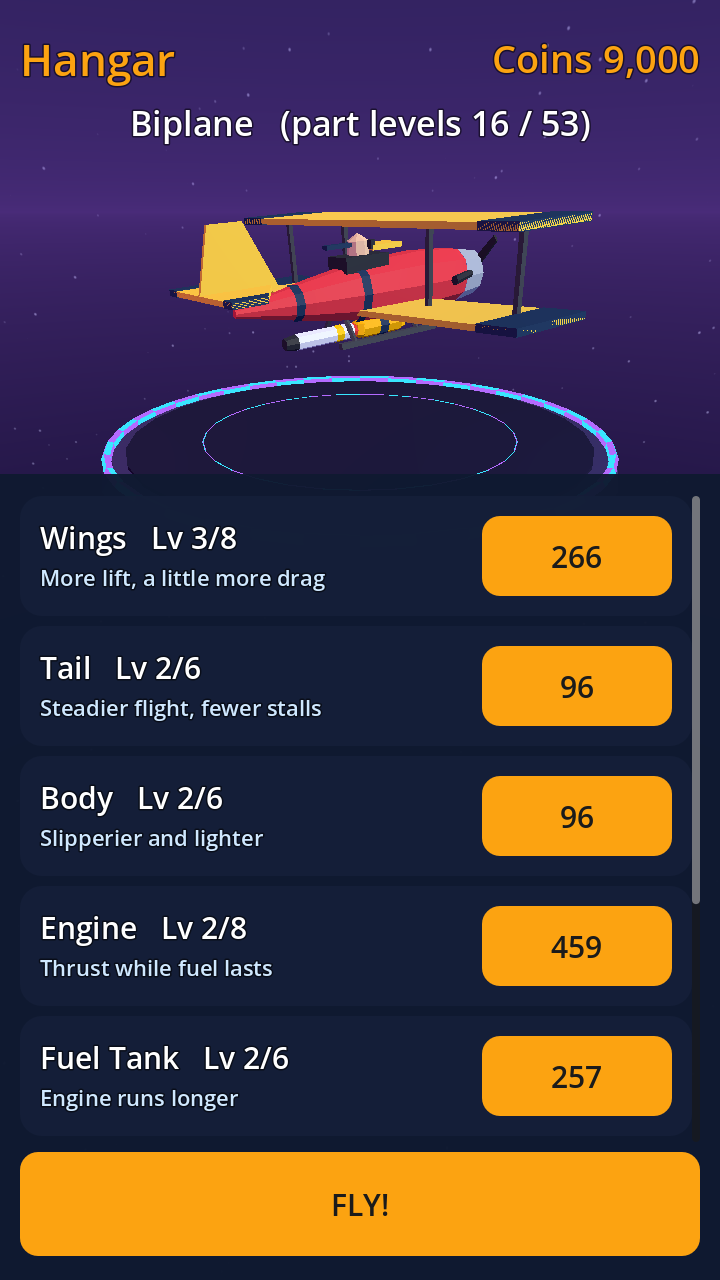
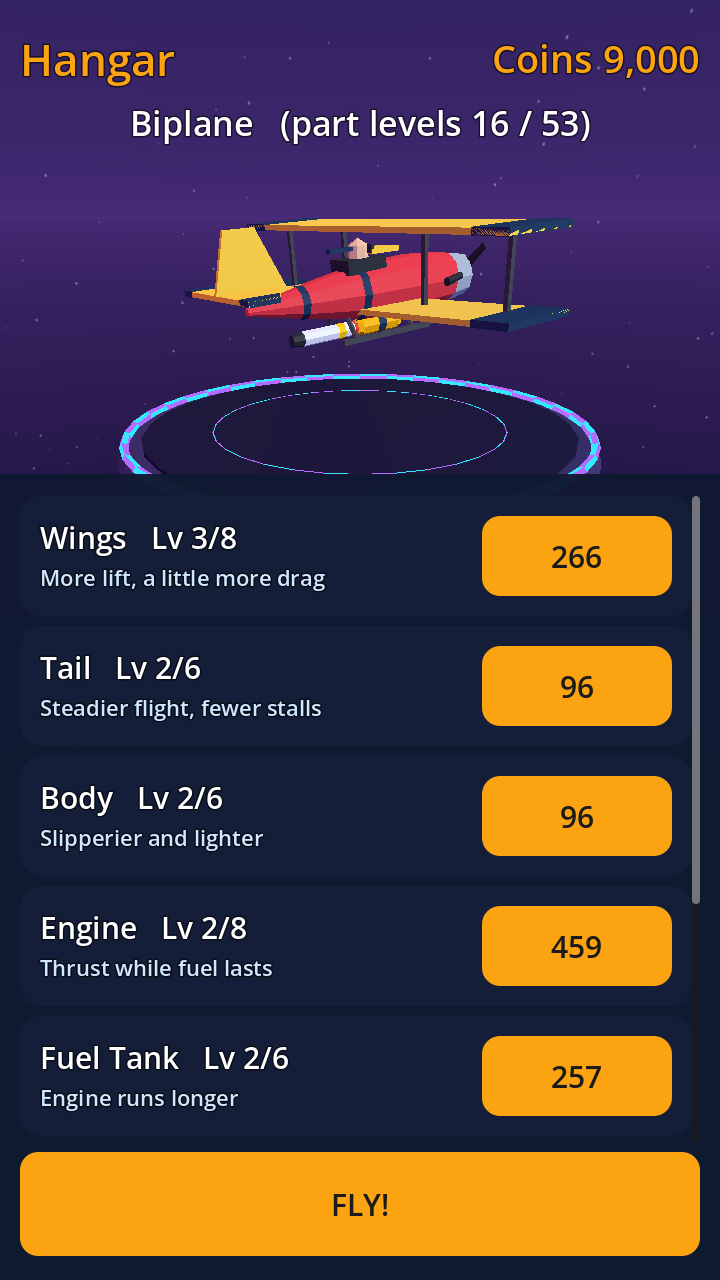
feat: v2 3D presentation, tests, screenshots, README

Changed region(s): [[0.2444, 0.1562, 0.825, 0.3125], [0.7333, 0.3125, 0.8556, 0.375], [0.1222, 0.3125, 0.275, 0.375]]

diff --git a/README.md b/README.md
@@ -4,7 +4,15 @@ Fling a paper plane from a slingshot, grab coins, bolt on better parts and evolv
 Reach Space, rebirth for Stars, and go even farther. A portrait mobile game made with Godot 4 (GDScript).
 No ads, no in-app purchases, no third-party assets: all art and sound are generated in code.
 
-![launch](docs/screenshots/launch.png) ![evolved](docs/screenshots/evolved.png) ![rebirth](docs/screenshots/rebirth.png) ![flight](docs/screenshots/flight.png) ![hangar](docs/screenshots/hangar.png) ![result](docs/screenshots/result.png)
+![launch](docs/screenshots/launch.png) ![meadow](docs/screenshots/flight_meadow.png) ![sea](docs/screenshots/flight_sea.png) ![desert](docs/screenshots/flight_desert.png)
+![mountains](docs/screenshots/flight_mountains.png) ![clouds](docs/screenshots/flight_clouds.png) ![space](docs/screenshots/flight_space.png) ![hangar](docs/screenshots/hangar.png) ![evolved](docs/screenshots/evolved.png)
+
+## 3D (v2)
+The game is rendered in real 3D (Godot Mobile renderer, 2x MSAA, no shadows, one cheap blob shadow). Every model is built in code from
+primitive meshes (`scripts/game/mesh_builder.gd`): the plane (7 tier silhouettes, every part level looks different), the slingshot
+(9 levels, stretching bands, 3D aim arc), pickups and hazards, and procedural terrain chunks per zone (pooled and freed as you fly,
+so memory stays flat). Chase camera, landing camera, rotating hangar turntable. Flight physics is still the 2D vertical-plane model,
+so balance is unchanged. The 2D HUD and menus overlay the 3D view.
 
 ## Controls
 | Action | Touch | Keyboard / mouse |
